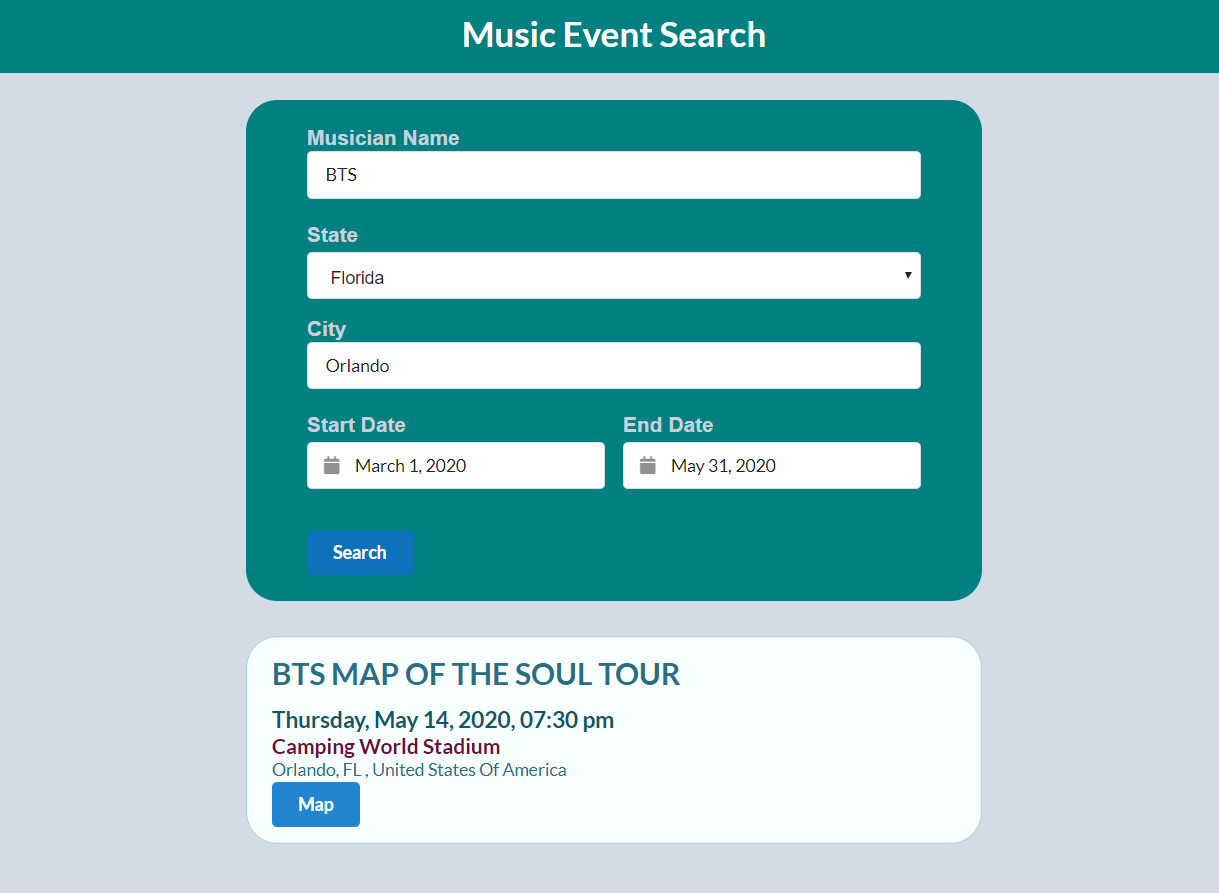
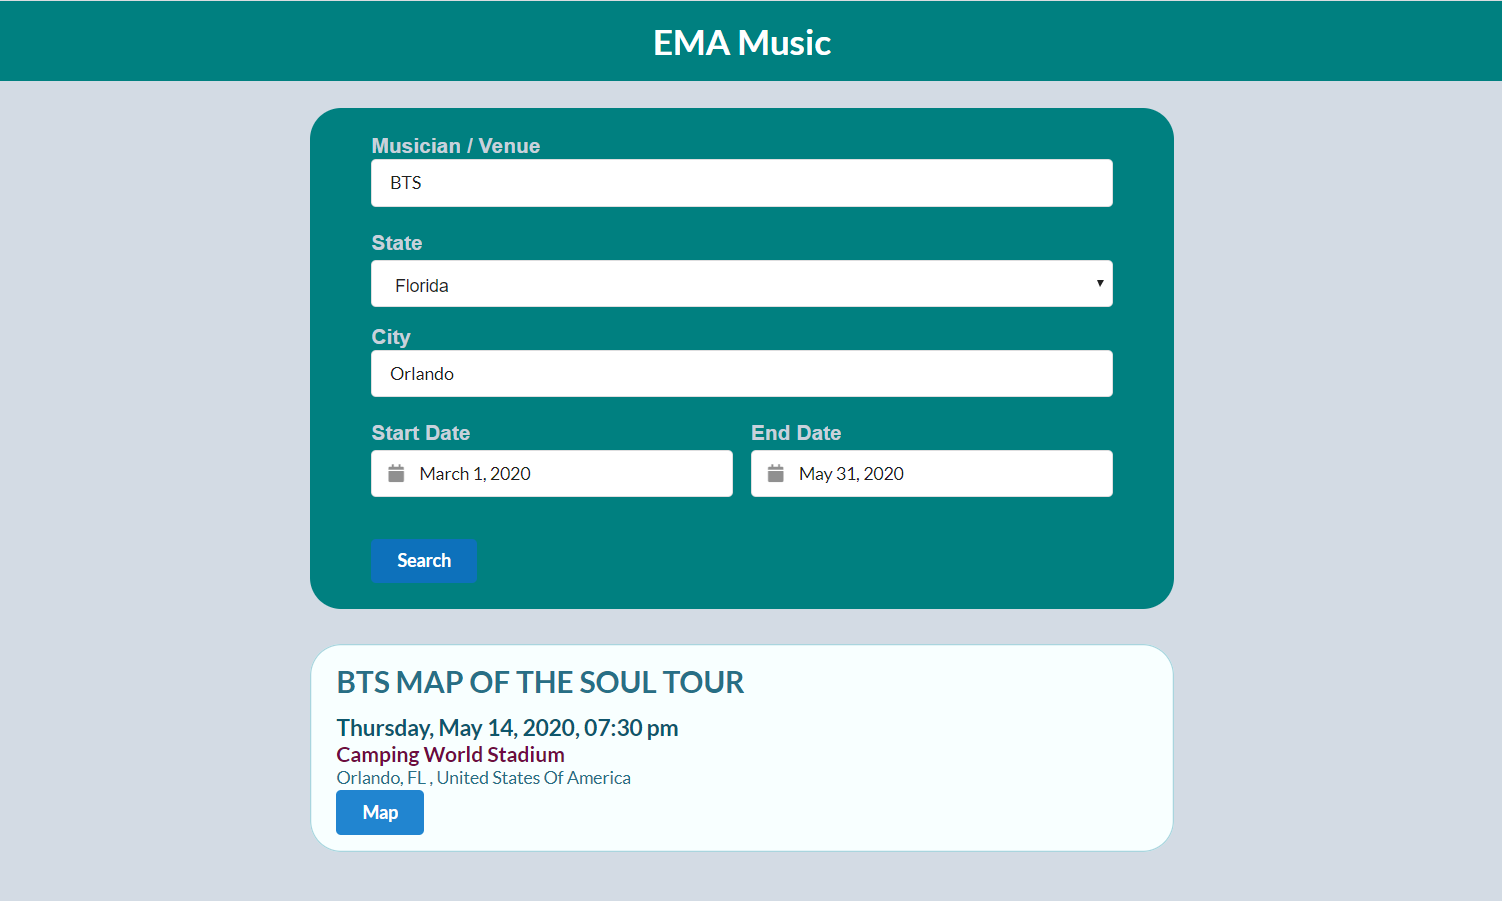
Updated the app image. Changed the app name shown in the header.

Changed region(s): [[0.0, 0.0, 1.0, 0.9373], [0.187, 0.1209, 0.2182, 0.6652], [0.7482, 0.9373, 0.7793, 0.9675]]

diff --git a/index.html b/index.html
@@ -33,7 +33,7 @@
         <script src="assets/js/script.js"></script>
         
         <div id="headerDiv" class="ui fixed inverted menu">
-            <h1>Music Event Search</h1>
+            <h1>EMA Music</h1>
         </div>
         <br>
         <br>

diff --git a/README.md b/README.md
@@ -43,7 +43,8 @@ When the user click on the map button on each event, it opens a modal that displ
   - Venue map in the modal
 
 ### Product Vision
---- MVP Plus the following ---
+MVP Plus the following:
+
 Google Places API & Directions API:
 * An info window in the map modal with the venue information:
   - Address
